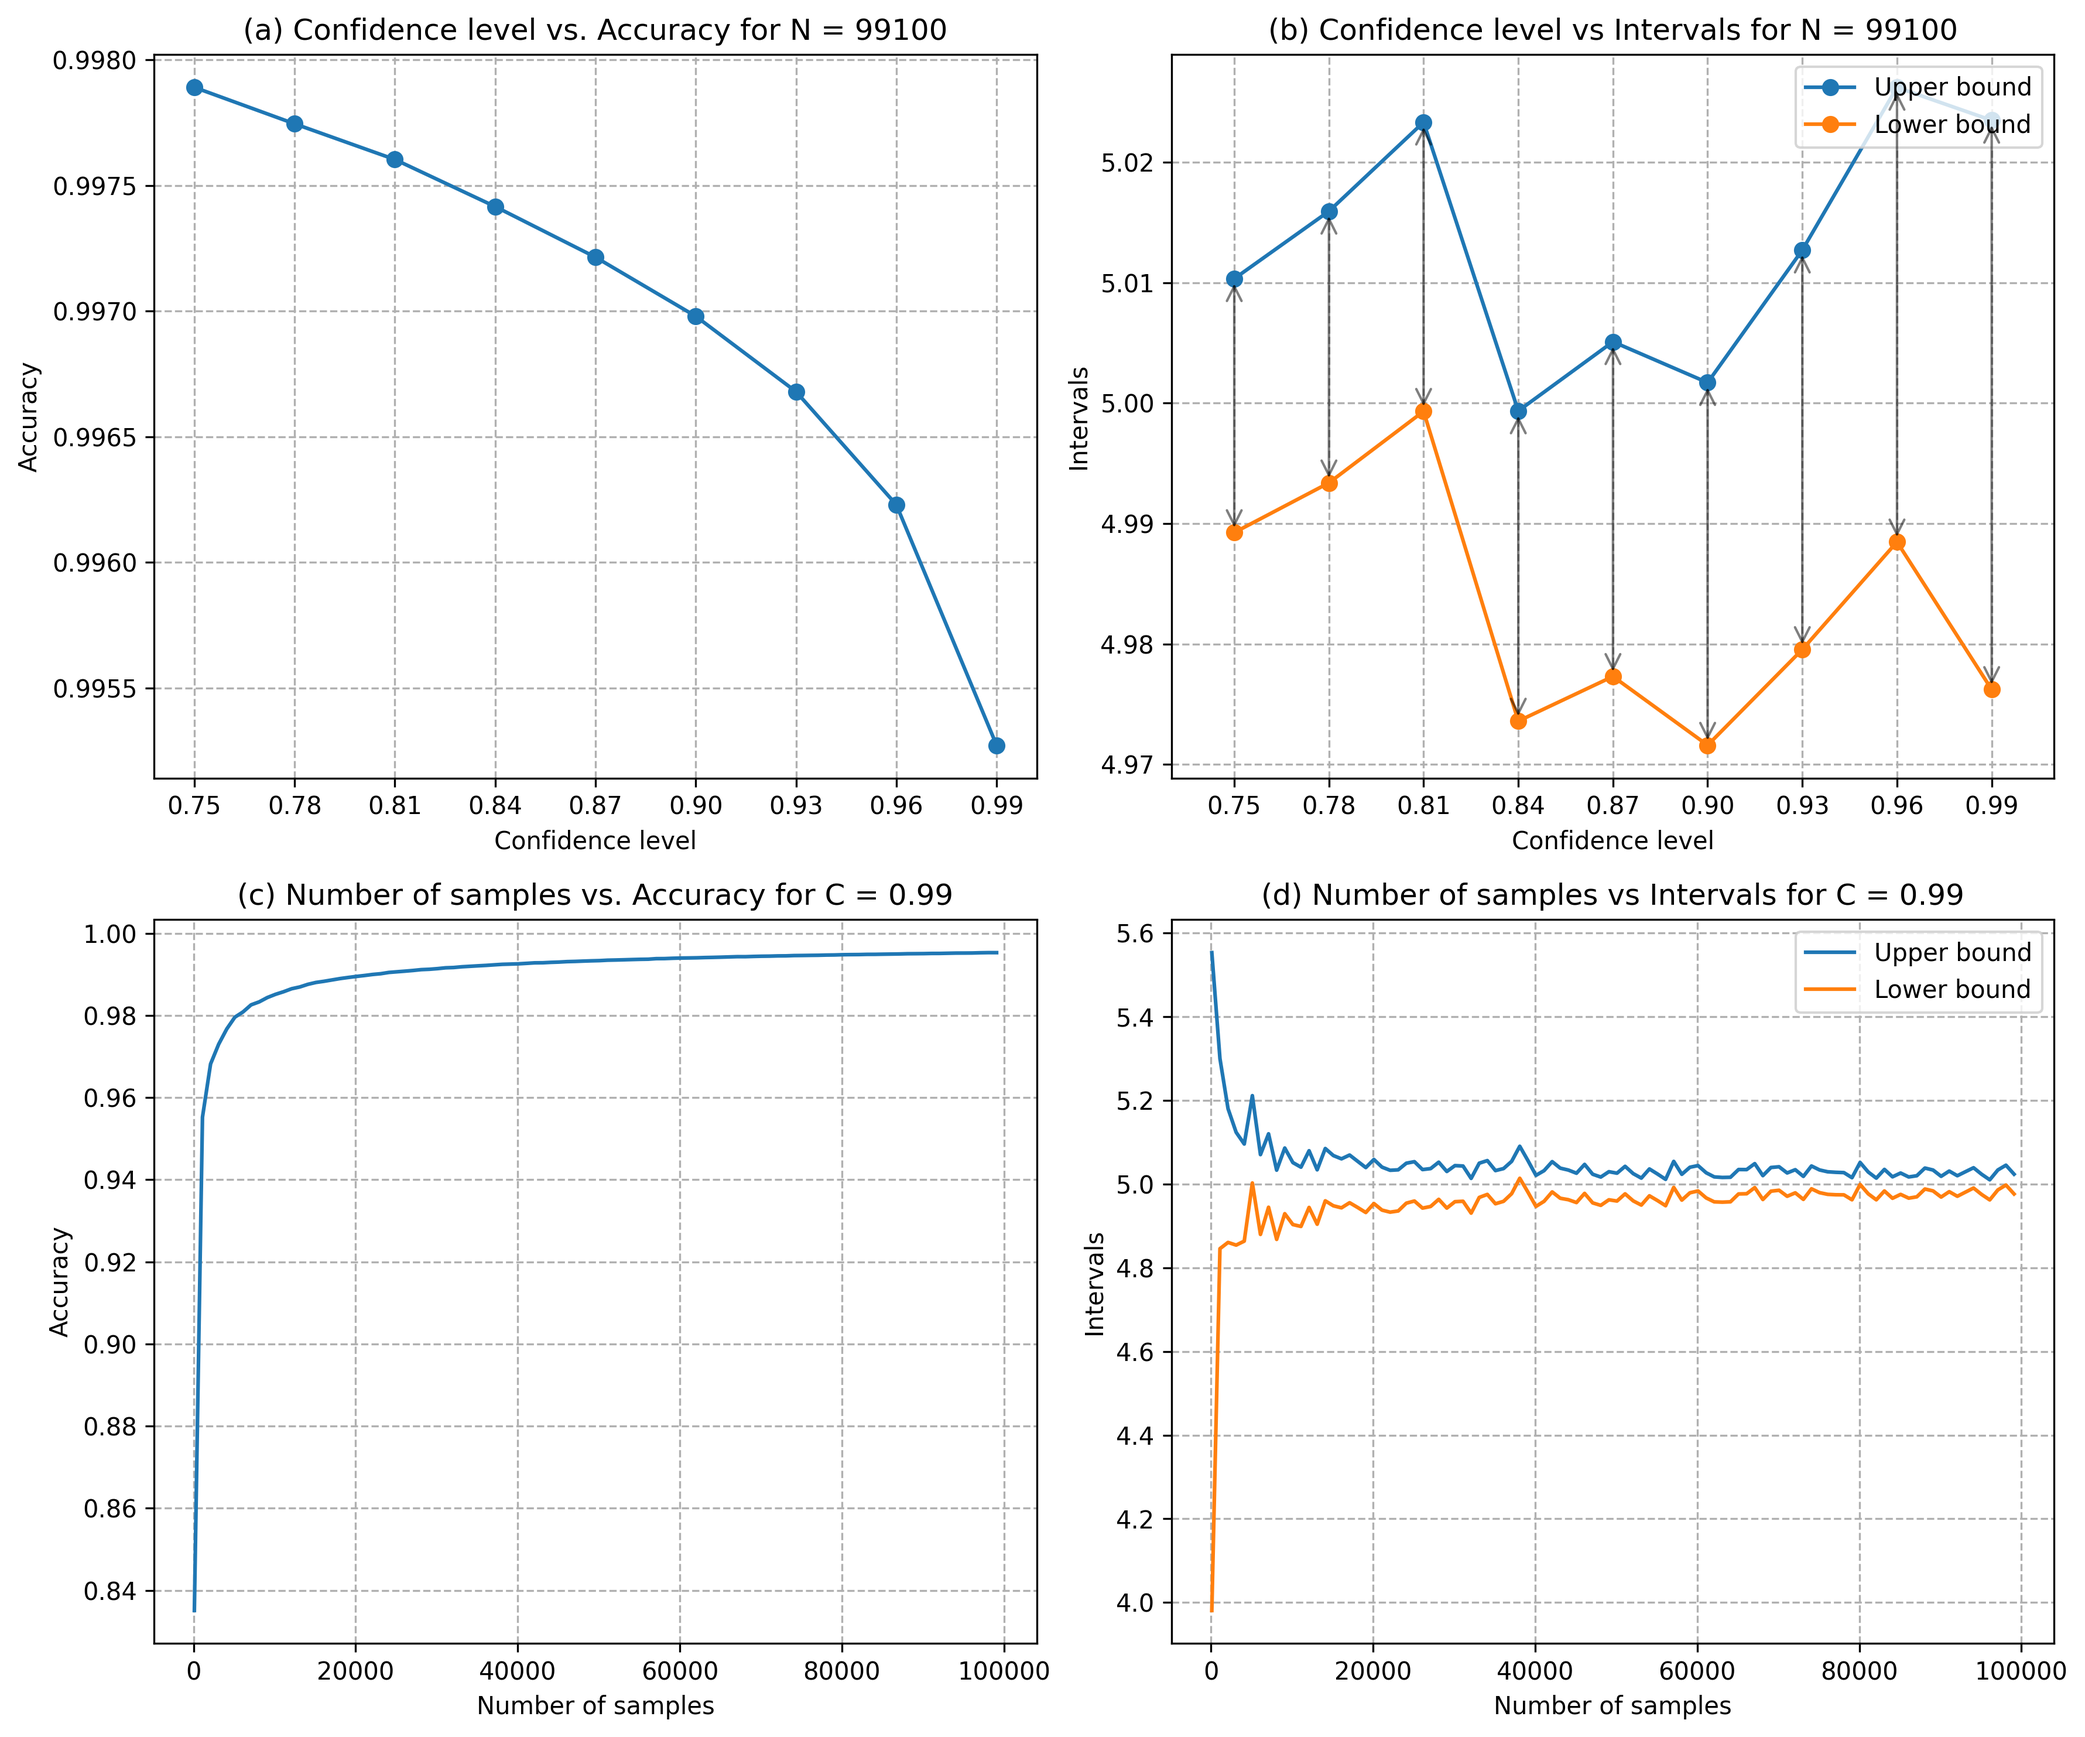
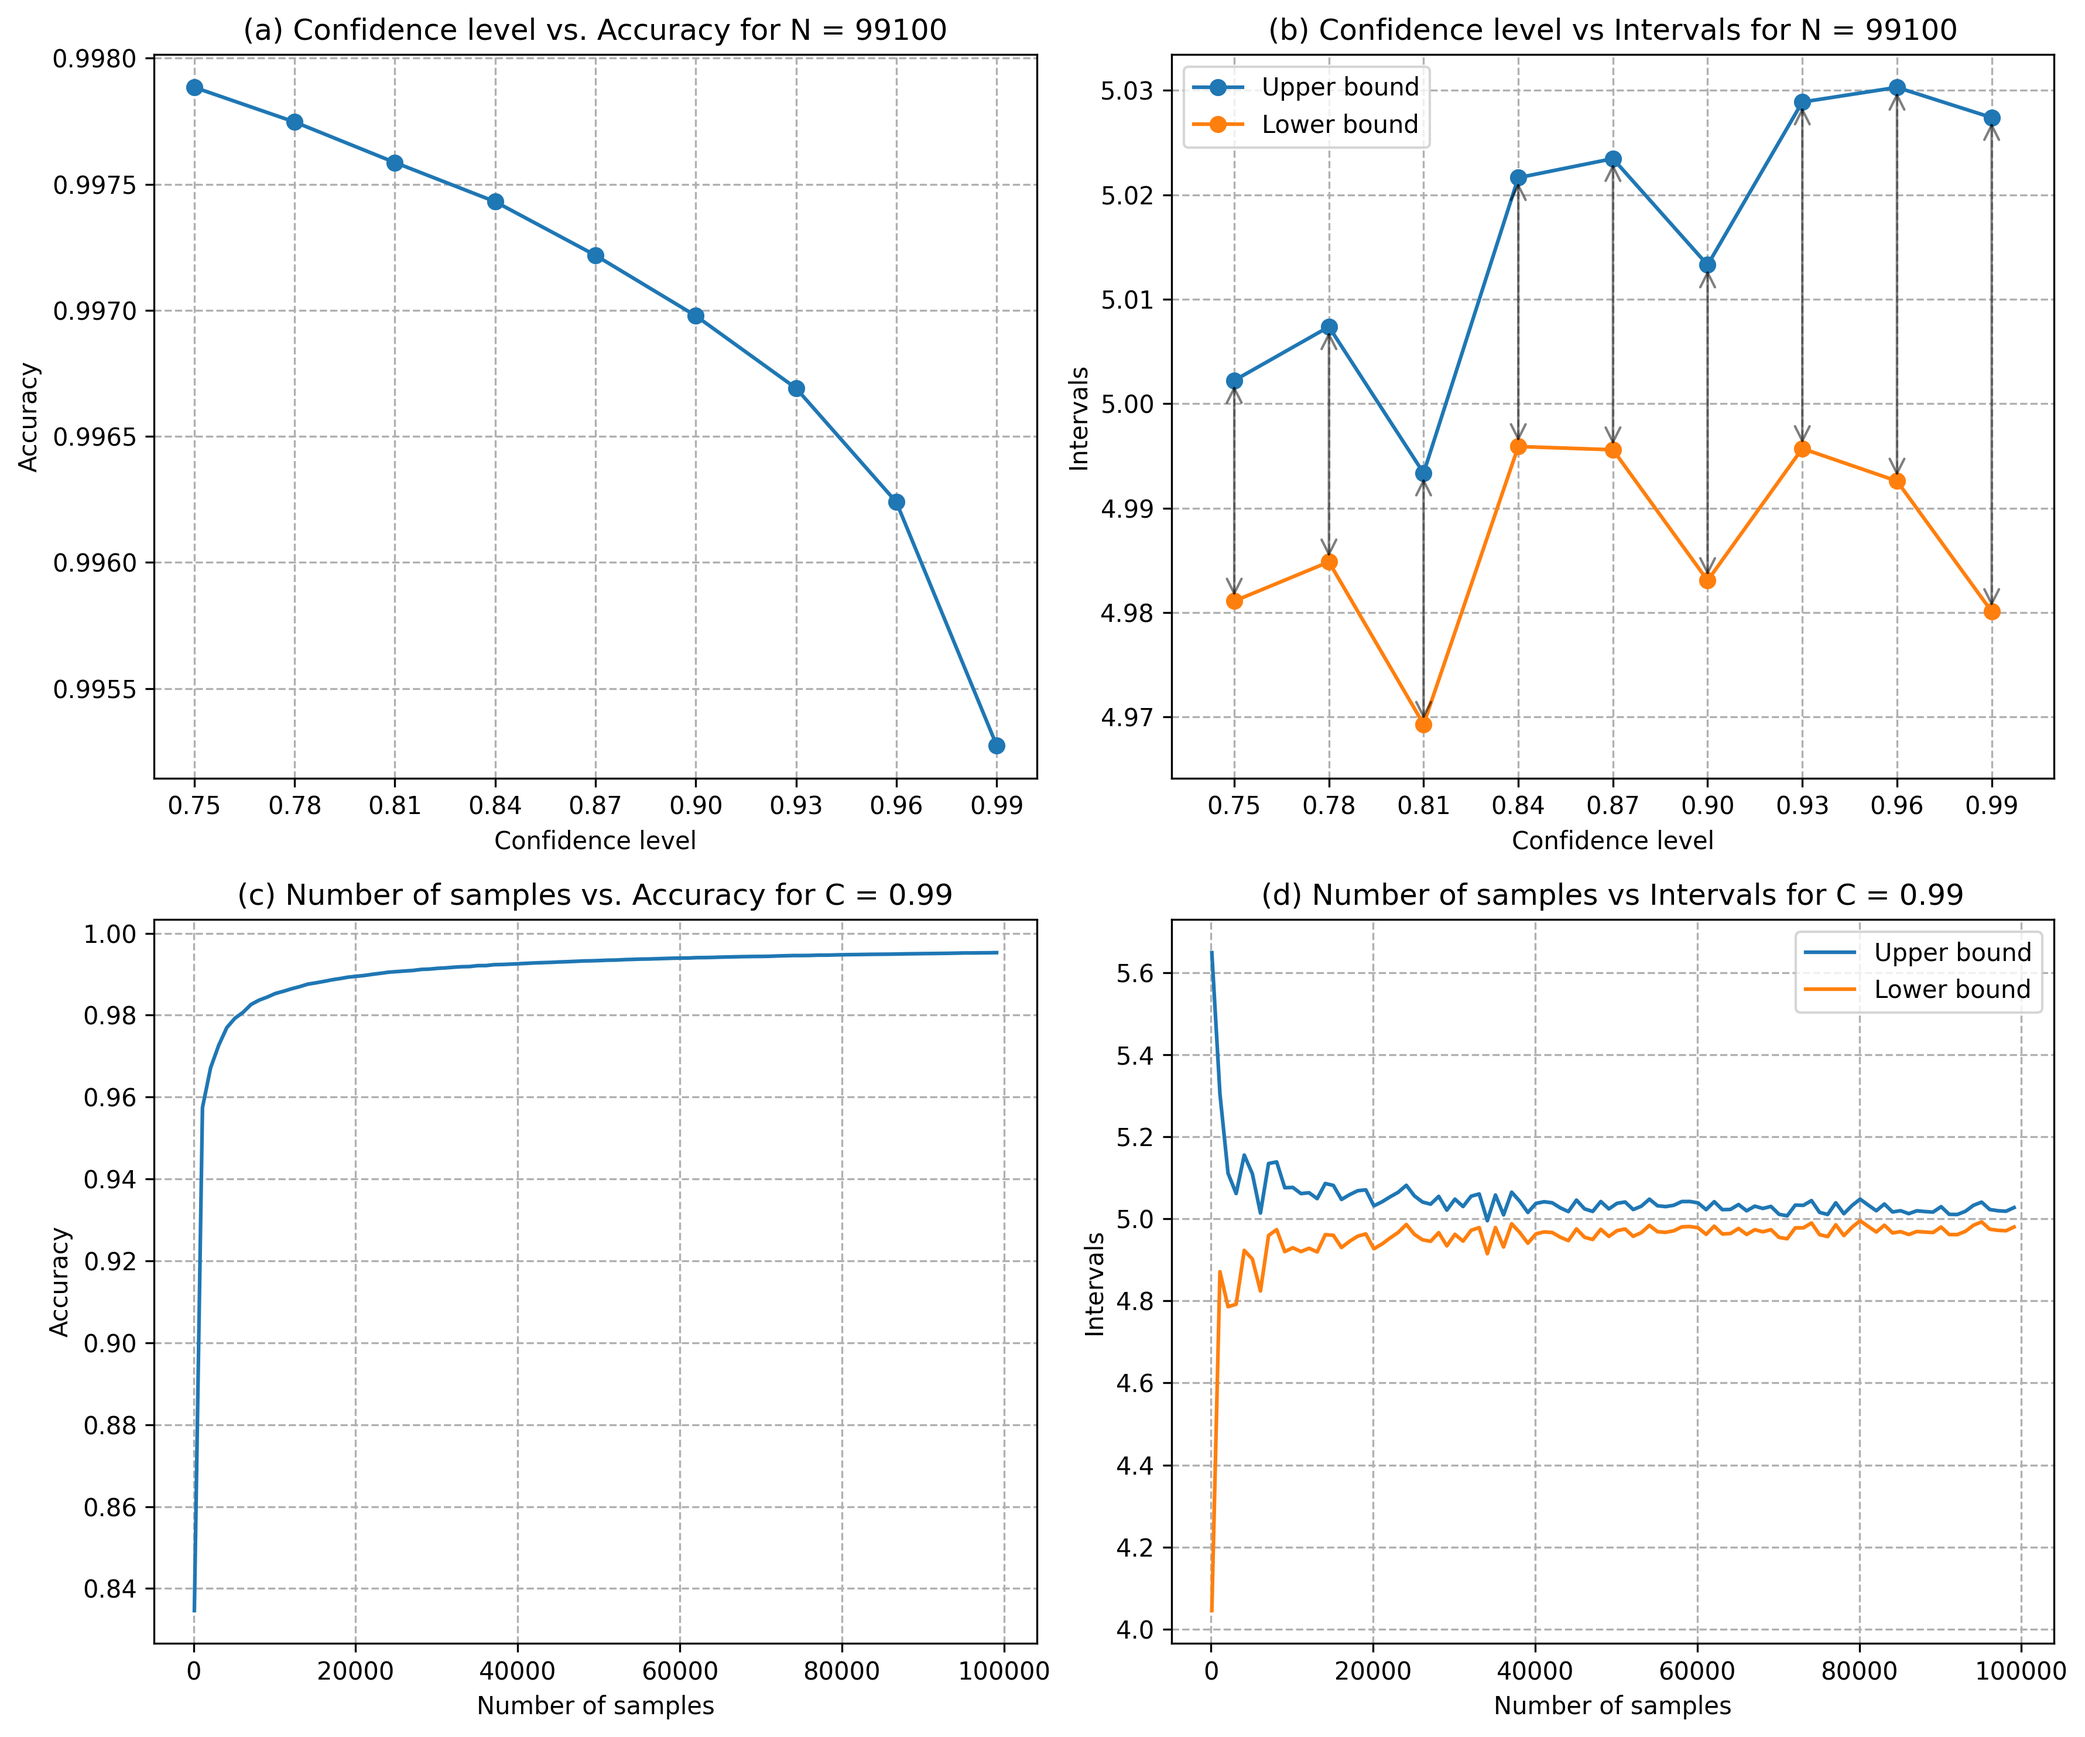
Fixed legend position

diff --git a/LabG2/labg2.py b/LabG2/labg2.py
@@ -100,7 +100,7 @@ def plot_graphs(results_mat, n=None, c=None):
     axes[0, 1].set_xlabel('Confidence level')
     axes[0, 1].set_xticks(np.unique(C))
     axes[0, 1].set_ylabel('Intervals')
-    axes[0, 1].legend(loc='upper right')
+    axes[0, 1].legend()
     axes[0, 1].grid(True, linestyle='--')
     
     # Plot 3: Number of samples vs. Accuracy
